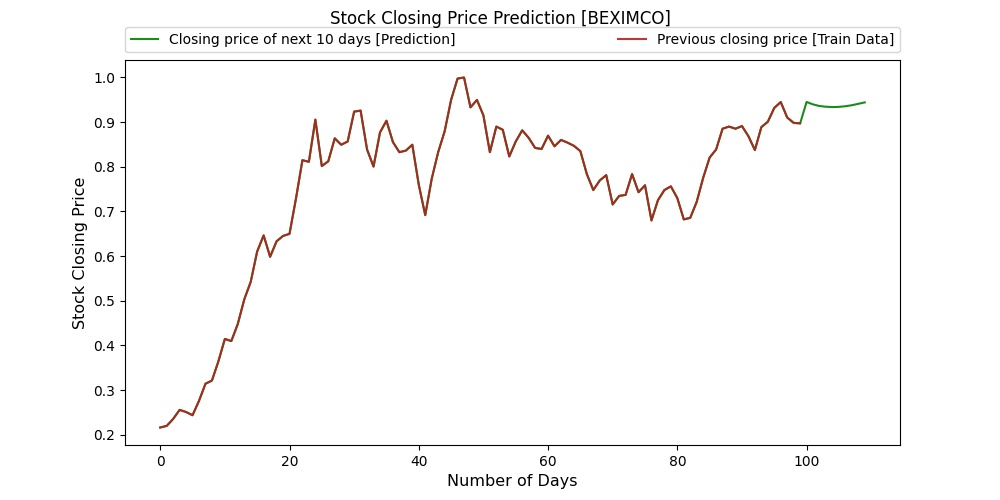
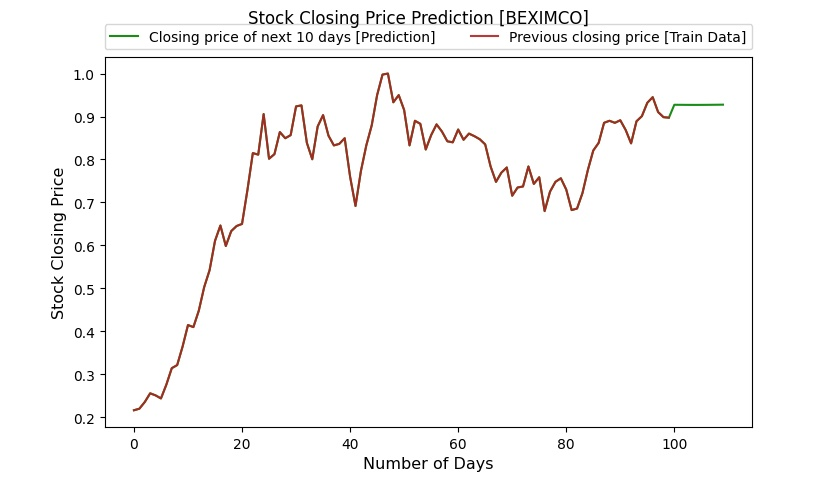
v1.3

diff --git a/appWithDropoutRegularization.py b/appWithDropoutRegularization.py
@@ -16,9 +16,11 @@ BEXIMCO_data=pd.read_csv(r'data/BEXIMCO.csv', index_col="DATE", parse_dates=True
 #BEXIMCO_data["HIGH"] = BEXIMCO_data["HIGH"].str.replace(',', '').astype(float);
 #BEXIMCO_data["LOW"] = BEXIMCO_data["LOW"].str.replace(',', '').astype(float);
 #BEXIMCO_data["CLOSE"] = BEXIMCO_data["CLOSE"].str.replace(',', '').astype(float);
-#BEXIMCO_data["VOLUME"] = BEXIMCO_data["VOLUME"].str.replace(',', '').astype(float);
+BEXIMCO_data["VOLUME"] = BEXIMCO_data["VOLUME"].str.replace(',', '').astype(float);
+BEXIMCO_data["TRADE"] = BEXIMCO_data["TRADE"].str.replace(',', '').astype(float);
+
 BEXIMCO_data1 = BEXIMCO_data.reset_index()['CLOSE'];
-#print(BEXIMCO_data.info())
+#print(BEXIMCO_data.head())
 
 # Convert/Scale the Data
 scaler= MinMaxScaler(feature_range = (0,1))
@@ -48,10 +50,11 @@ BEX_X_test = BEX_X_test.reshape(BEX_X_test.shape[0], BEX_X_test.shape[1], 1);
 # Load Data and Convert Data Type
 BATBC_data=pd.read_csv(r'data/BATBC.csv', index_col="DATE", parse_dates=True)
 #BATBC_data["OPEN"] = BATBC_data["OPEN"].str.replace(',', '').astype(float);
-#BATBC_data["HIGH"] = BATBC_data["HIGH"].str.replace(',', '').astype(float);
-#BATBC_data["LOW"] = BATBC_data["LOW"].str.replace(',', '').astype(float);
+BATBC_data["HIGH"] = BATBC_data["HIGH"].str.replace(',', '').astype(float);
+BATBC_data["LOW"] = BATBC_data["LOW"].str.replace(',', '').astype(float);
 BATBC_data["CLOSE"] = BATBC_data["CLOSE"].str.replace(',', '').astype(float);
-#BATBC_data["VOLUME"] = BATBC_data["VOLUME"].str.replace(',', '').astype(float);
+BATBC_data["VOLUME"] = BATBC_data["VOLUME"].str.replace(',', '').astype(float);
+BATBC_data["TRADE"] = BATBC_data["TRADE"].str.replace(',', '').astype(float);
 BATBC_data1 = BATBC_data.reset_index()['CLOSE'];
 #print(BATBC_data.info())
 
@@ -88,9 +91,10 @@ LB_data=pd.read_csv(r'data/LANKABANGLA.csv', index_col="DATE", parse_dates=True)
 #LB_data["HIGH"] = LB_data["HIGH"].str.replace(',', '').astype(float);
 #LB_data["LOW"] = LB_data["LOW"].str.replace(',', '').astype(float);
 #LB_data["CLOSE"] = LB_data["CLOSE"].str.replace(',', '').astype(float);
-#LB_data["VOLUME"] = LB_data["VOLUME"].str.replace(',', '').astype(float);
+LB_data["TRADE"] = LB_data["TRADE"].str.replace(',', '').astype(float);
+LB_data["VOLUME"] = LB_data["VOLUME"].str.replace(',', '').astype(float);
 LB_data1 = LB_data.reset_index()['CLOSE'];
-#print(BATBC_data.info())
+#print(LB_data.info())
 
 # Convert/Scale the Data
 scaler= MinMaxScaler(feature_range = (0,1))
@@ -114,7 +118,6 @@ LB_X_train, LB_y_train = create_dataset(LB_train_data, time_step);
 LB_X_test, LB_y_test = create_dataset(LB_test_data, time_step);        
 LB_X_train = LB_X_train.reshape(LB_X_train.shape[0], LB_X_train.shape[1], 1);
 LB_X_test = LB_X_test.reshape(LB_X_test.shape[0], LB_X_test.shape[1], 1);
-
 # ---------------------------------------------------------------------------------------
 
 # Build the LSTM Network

diff --git a/app.py b/app.py
@@ -19,7 +19,7 @@ BEXIMCO_data["VOLUME"] = BEXIMCO_data["VOLUME"].str.replace(',', '').astype(floa
 BEXIMCO_data["TRADE"] = BEXIMCO_data["TRADE"].str.replace(',', '').astype(float);
 
 BEXIMCO_data1 = BEXIMCO_data.reset_index()['CLOSE'];
-#print(BEXIMCO_data.info())
+#print(BEXIMCO_data.head())
 
 # Convert/Scale the Data
 scaler= MinMaxScaler(feature_range = (0,1))
